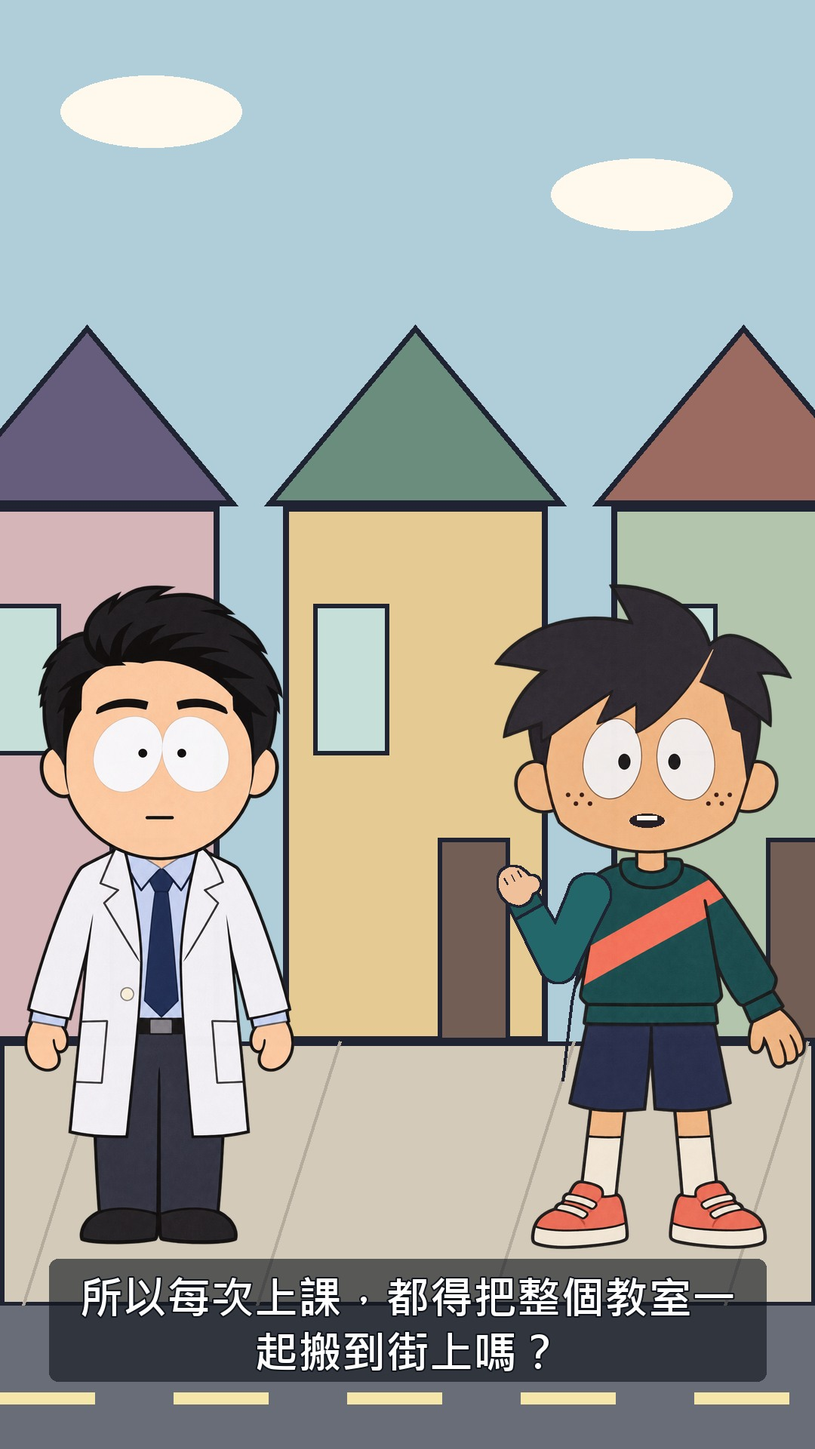
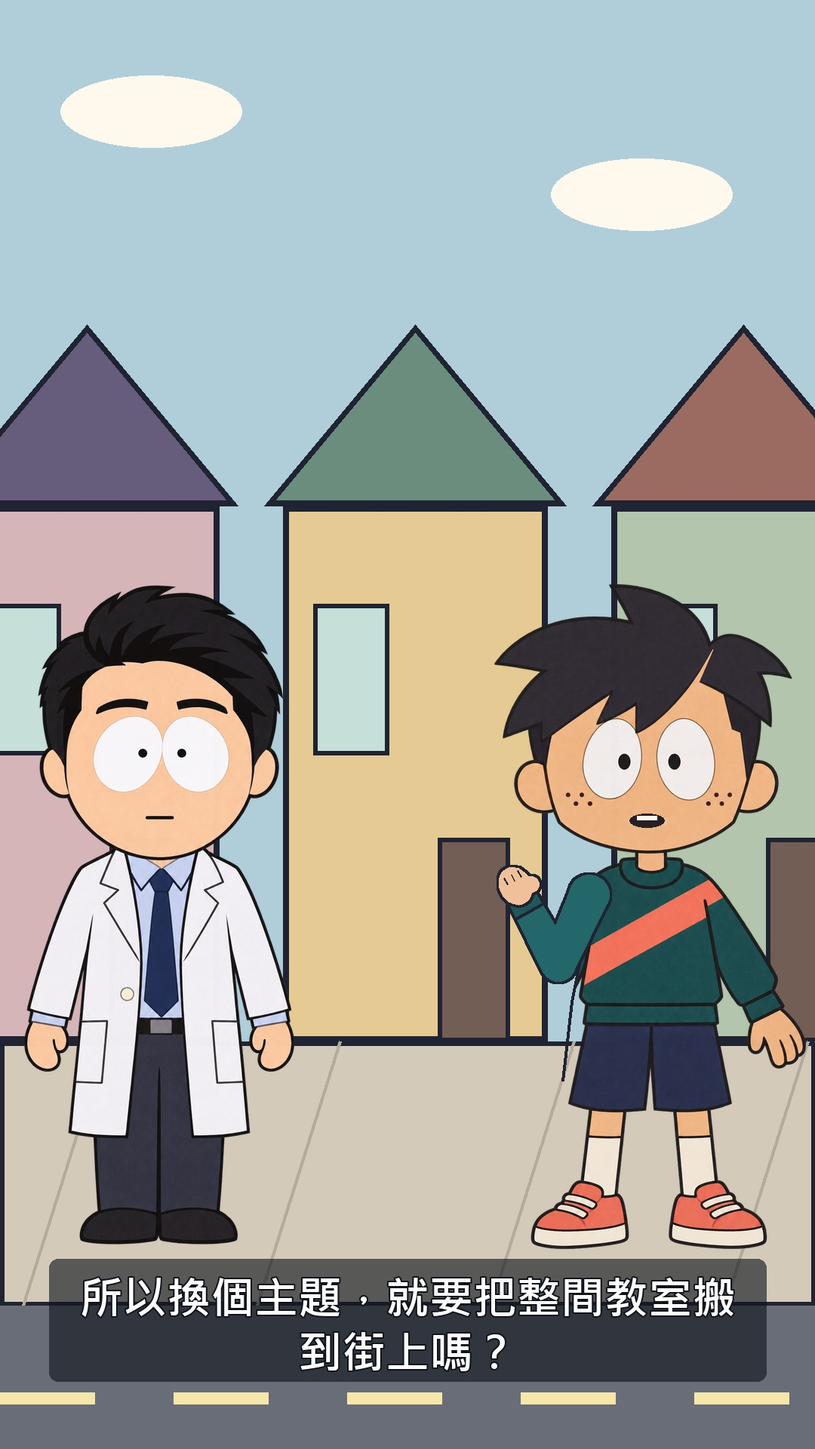
Make student questions explicit and close medical episodes with a doctor conclusion

Changed region(s): [[0.2139, 0.875, 0.6722, 0.9688], [0.8556, 0.875, 0.9167, 0.9062], [0.6722, 0.875, 0.7333, 0.9062]]

diff --git a/examples/draft/storyboard.html b/examples/draft/storyboard.html
@@ -1,1 +1,1 @@
-<!doctype html><html lang="zh-Hant"><meta charset="utf-8"><meta name="viewport" content="width=device-width,initial-scale=1"><title>醫師剪紙劇場・通用讀劇範本・分鏡審稿</title><style>body{background:#fff9ed;color:#202332;font:17px system-ui;max-width:1100px;margin:40px auto;padding:0 20px}article{display:grid;grid-template-columns:230px 1fr;gap:28px;border-top:3px solid #202332;padding:25px 0}img{width:100%;aspect-ratio:9/16;object-fit:contain}h1{font-size:30px}small{color:#666}p{line-height:1.7}.status{padding:18px;background:#f8c854}a{color:#315d57}@media(max-width:600px){article{grid-template-columns:1fr}img{max-width:270px}}</style><h1>醫師剪紙劇場・通用讀劇範本</h1><p class="status">待審稿 · 手機滿版場景 9:16 · 版本 ea56bb37448d4e18 · 約 49.0 秒（估）<br>尚未生成配音、配樂或影片。請先修改或確認腳本與分鏡。</p><p><a href="script.md">完整腳本</a> · <a href="storyboard.jpg">分鏡總覽</a> · <a href="episode.json">劇本資料</a></p><article><img src="frames/01.jpg" alt="分鏡 1"><div><small>01 · 教室 · 角色對話 · 5.7s（估）</small><h2>先猜，再找答案？</h2><p><b>阿洛：</b>醫師！今天的健康課講什麼？我已經準備亂猜了！</p><p>動作：教室黑板前，阿洛點頭搶話，醫師在旁聽。</p><p>反應：醫師維持冷面，等阿洛說完。</p><p>鏡頭：固定尺度・阿洛發言 · 來源：無臨床說法</p></div></article><article><img src="frames/02.jpg" alt="分鏡 2"><div><small>02 · 教室 · 黑板講解 · 6.4s（估）</small><h2>黑板把關係講清楚</h2><p><b>醫師：</b>先有主題，再查資料。你看黑板，我把關係整理給你看。</p><p>動作：師生同尺度分站黑板兩側，醫師用指示棒介紹條列與箭頭。</p><p>反應：阿洛看完黑板再接話，不讓教具成為純背景。</p><p>鏡頭：固定尺度・醫師發言 · 來源：無臨床說法</p></div></article><article><img src="frames/03.jpg" alt="分鏡 3"><div><small>03 · 小學校園 · 角色對話 · 5.9s（估）</small><h2>也可以用模型上課</h2><p><b>美芳：</b>也能放個骨頭模型嗎？讓學生看著教具，再問問題。</p><p>動作：校園中美芳提出教具建議，醫師聽完帶回教室示範。</p><p>反應：不把每一集固定成有人說錯、醫師糾正。</p><p>鏡頭：固定尺度・美芳發言 · 來源：無臨床說法</p></div></article><article><img src="frames/04.jpg" alt="分鏡 4"><div><small>04 · 教室 · 骨頭模型示範 · 5.9s（估）</small><h2>骨頭模型上桌</h2><p><b>醫師：</b>可以。模型放桌上，學生看得到，問題就能接著來。</p><p>動作：醫師與阿洛同尺度站在模型兩側；桌面有骨頭教具與支架。</p><p>反應：阿洛觀察模型；本幕只展示教具演法，不提供疾病或精確解剖說法。</p><p>鏡頭：固定尺度・醫師發言 · 來源：無臨床說法</p></div></article><article><img src="frames/05.jpg" alt="分鏡 5"><div><small>05 · 街道 · 角色對話 · 5.8s（估）</small><h2>連教室都要搬出來？</h2><p><b>阿洛：</b>所以每次上課，都得把整個教室一起搬到街上嗎？</p><p>動作：街道中阿洛追問，醫師保持同尺度冷面聽完。</p><p>反應：從教具示範轉成生活情境，用接話推進笑點。</p><p>鏡頭：固定尺度・阿洛發言 · 來源：無臨床說法</p></div></article><article><img src="frames/06.jpg" alt="分鏡 6"><div><small>06 · 街道 · 並列比較 · 5.9s（估）</small><h2>演法依主題來選</h2><p><b>美芳：</b>不用搬教室。看主題，選適合的場景、黑板或模型。</p><p>動作：街道上用並列教學卡比較兩種敘事用途，兩位角色保持同尺度。</p><p>反應：美芳代觀眾回應，不把所有內容塞成醫師獨白。</p><p>鏡頭：固定尺度・美芳發言 · 來源：無臨床說法</p></div></article><article><img src="frames/07.jpg" alt="分鏡 7"><div><small>07 · 教室 · 學生猜題 · 6.8s（估）</small><h2>先讓你看分鏡</h2><p><b>醫師：</b>來，猜一下：先看分鏡，還是直接開拍？你確認了才開拍。</p><p>動作：師生站在黑板兩側，列出兩個選項，先交給使用者審閱。</p><p>反應：阿洛準備接話；修改確認之前不生成聲音或影片。</p><p>鏡頭：固定尺度・全員同框 · 來源：無臨床說法</p></div></article><article><img src="frames/08.jpg" alt="分鏡 8"><div><small>08 · 教室 · 角色對話 · 6.5s（估）</small><h2>先審稿，才不會演錯棚</h2><p><b>阿洛：</b>好！先讓你看分鏡，我才不會抱著骨頭模型演錯棚！</p><p>動作：滿版教室雙人同框；阿洛說話時揮手，結束後收手留白。</p><p>反應：醫師在旁聽，停在分鏡審稿階段，等待使用者修改。</p><p>鏡頭：固定尺度・笑點留白 · 來源：無臨床說法</p></div></article></html>
+<!doctype html><html lang="zh-Hant"><meta charset="utf-8"><meta name="viewport" content="width=device-width,initial-scale=1"><title>醫師剪紙劇場・通用讀劇範本・分鏡審稿</title><style>body{background:#fff9ed;color:#202332;font:17px system-ui;max-width:1100px;margin:40px auto;padding:0 20px}article{display:grid;grid-template-columns:230px 1fr;gap:28px;border-top:3px solid #202332;padding:25px 0}img{width:100%;aspect-ratio:9/16;object-fit:contain}h1{font-size:30px}small{color:#666}p{line-height:1.7}.status{padding:18px;background:#f8c854}a{color:#315d57}@media(max-width:600px){article{grid-template-columns:1fr}img{max-width:270px}}</style><h1>醫師剪紙劇場・通用讀劇範本</h1><p class="status">待審稿 · 手機滿版場景 9:16 · 版本 3ca61ae56ad882e2 · 約 56.7 秒（估）<br>尚未生成配音、配樂或影片。請先修改或確認腳本與分鏡。</p><p><a href="script.md">完整腳本</a> · <a href="storyboard.jpg">分鏡總覽</a> · <a href="episode.json">劇本資料</a></p><article><img src="frames/01.jpg" alt="分鏡 1"><div><small>01 · 教室 · 角色對話 · 提問 · 5.9s（估）</small><h2>先猜，再找答案？</h2><p><b>阿洛：</b>醫師，今天健康課要講什麼呢？我可以先猜猜看嗎？</p><p>動作：阿洛舉手，用真正請教的疑問句發問；問完等待醫師回答。</p><p>反應：醫師下一幕先回應阿洛的問題，再帶到黑板。</p><p>鏡頭：固定尺度・阿洛發言 · 來源：無臨床說法</p></div></article><article><img src="frames/02.jpg" alt="分鏡 2"><div><small>02 · 教室 · 黑板講解 · 回答 · 6.4s（估）</small><h2>黑板把關係講清楚</h2><p><b>醫師：</b>先有主題，再查資料。你看黑板，我把關係整理給你看。</p><p>動作：師生同尺度分站黑板兩側，醫師用指示棒介紹條列與箭頭。</p><p>反應：阿洛看完黑板再接話，不讓教具成為純背景。</p><p>鏡頭：固定尺度・醫師發言 · 來源：無臨床說法</p></div></article><article><img src="frames/03.jpg" alt="分鏡 3"><div><small>03 · 小學校園 · 角色對話 · 提問 · 6.6s（估）</small><h2>也可以用模型上課</h2><p><b>美芳：</b>也能放個骨頭模型嗎？讓學生看著教具，再問問題，好嗎？</p><p>動作：校園中美芳提出教具建議，醫師聽完帶回教室示範。</p><p>反應：不把每一集固定成有人說錯、醫師糾正。</p><p>鏡頭：固定尺度・美芳發言 · 來源：無臨床說法</p></div></article><article><img src="frames/04.jpg" alt="分鏡 4"><div><small>04 · 教室 · 骨頭模型示範 · 回答 · 5.9s（估）</small><h2>骨頭模型上桌</h2><p><b>醫師：</b>可以。模型放桌上，學生看得到，問題就能接著來。</p><p>動作：醫師與阿洛同尺度站在模型兩側；桌面有骨頭教具與支架。</p><p>反應：阿洛觀察模型；本幕只展示教具演法，不提供疾病或精確解剖說法。</p><p>鏡頭：固定尺度・醫師發言 · 來源：無臨床說法</p></div></article><article><img src="frames/05.jpg" alt="分鏡 5"><div><small>05 · 街道 · 角色對話 · 提問 · 5.3s（估）</small><h2>連教室都要搬出來？</h2><p><b>阿洛：</b>所以換個主題，就要把整間教室搬到街上嗎？</p><p>動作：街道中阿洛追問，醫師保持同尺度冷面聽完。</p><p>反應：從教具示範轉成生活情境，用接話推進笑點。</p><p>鏡頭：固定尺度・阿洛發言 · 來源：無臨床說法</p></div></article><article><img src="frames/06.jpg" alt="分鏡 6"><div><small>06 · 街道 · 並列比較 · 回答 · 5.9s（估）</small><h2>演法依主題來選</h2><p><b>美芳：</b>不用搬教室。看主題，選適合的場景、黑板或模型。</p><p>動作：街道上用並列教學卡比較兩種敘事用途，兩位角色保持同尺度。</p><p>反應：美芳代觀眾回應，不把所有內容塞成醫師獨白。</p><p>鏡頭：固定尺度・美芳發言 · 來源：無臨床說法</p></div></article><article><img src="frames/07.jpg" alt="分鏡 7"><div><small>07 · 教室 · 學生猜題 · 回答 · 6.8s（估）</small><h2>先讓你看分鏡</h2><p><b>醫師：</b>來，猜一下：先看分鏡，還是直接開拍？你確認了才開拍。</p><p>動作：師生站在黑板兩側，列出兩個選項，先交給使用者審閱。</p><p>反應：阿洛準備接話；修改確認之前不生成聲音或影片。</p><p>鏡頭：固定尺度・全員同框 · 來源：無臨床說法</p></div></article><article><img src="frames/08.jpg" alt="分鏡 8"><div><small>08 · 教室 · 角色對話 · 提問 · 6.5s（估）</small><h2>有問題還能再問嗎？</h2><p><b>阿洛：</b>所以先看分鏡再拍嗎？如果還有問題，可以再問嗎？</p><p>動作：阿洛自然舉手追問，以「嗎？」結尾，不在問題後接斷言。</p><p>反應：醫師接著回答，並用結論與個別評估提醒收尾。</p><p>鏡頭：固定尺度・笑點留白 · 來源：無臨床說法</p></div></article><article><img src="frames/09.jpg" alt="分鏡 9"><div><small>09 · 教室 · 角色對話 · 結論 · 7.2s（估）</small><h2>問清楚，個別狀況交由專業評估</h2><p><b>醫師：</b>可以，再問清楚。實際狀況，還是建議請專業醫師評估。</p><p>動作：醫師先回答學生，再以專業評估提醒收束；提醒會完整配音與上字幕。</p><p>反應：阿洛聽完，結尾保留停頓，不再接笑話蓋過結論。</p><p>鏡頭：固定尺度・醫師發言 · 來源：無臨床說法</p></div></article></html>

diff --git a/scripts/render.py b/scripts/render.py
@@ -18,6 +18,7 @@ from visuals import Stage, chunks, find_font, fit, TEACHING_LABELS, GESTURE_LABE
 
 ROOT = Path(__file__).resolve().parents[1]
 ASPECT_RATIO = "9:16"
+INTENT_LABELS = {"question":"提問", "answer":"回答", "statement":"陳述", "reaction":"反應", "closing":"結論"}
 
 
 def video_size(width=1080):
@@ -91,6 +92,11 @@ def validate(data):
         for field,limit in (("text",140),("headline",26),("beat",40)):
             if not isinstance(scene.get(field),str) or not 1 <= len(scene[field].strip()) <= limit:
                 raise ValueError(f"Scene {i+1}: {field} must have 1–{limit} characters")
+        scene.setdefault("intent","question" if scene["text"].rstrip().endswith(("？","?")) else "statement")
+        if scene["intent"] not in INTENT_LABELS:
+            raise ValueError(f"Scene {i+1}: invalid dialogue intent")
+        if scene["intent"]=="question" and not scene["text"].rstrip().endswith(("？","?")):
+            raise ValueError(f"Scene {i+1}: question dialogue must end with a question mark; rewrite it as a natural question")
         if scene.get("speaker") not in DEFAULT_VOICES:
             raise ValueError(f"Scene {i+1}: invalid speaker")
         if scene.get("shot") not in ("wide","doctor","alo","mei","punch"):
@@ -135,6 +141,8 @@ def validate(data):
         claim_count+=len(claims)
     if kind == "medical" and (not sources or not claim_count):
         raise ValueError("Medical episodes require sources and scene-level claims references")
+    if kind=="medical" and (scenes[-1]["speaker"]!="doctor" or scenes[-1]["intent"]!="closing"):
+        raise ValueError("Medical episodes must end with a doctor closing scene: summarize the topic and an appropriate individual-assessment reminder")
     if sum(s["speaker"]!="narrator" for s in scenes)/len(scenes)<.75:
         raise ValueError("At least 75% of scenes must be character dialogue")
     return data
@@ -183,10 +191,11 @@ def draft(episode,out,font_path):
                     "punch":"固定尺度・笑點留白"}[scene["shot"]]
         beat_label={"hook":"開場衝突","turn":"轉折","escalate":"誤解升級","explain":"釐清",
                     "character":"角色接話","dialogue":"追問","workflow":"製作流程",
-                    "punch":"笑點","cta":"行動"}.get(scene["beat"],scene["beat"])
+                    "punch":"笑點","cta":"行動","closing":"重點與評估提醒"}.get(scene["beat"],scene["beat"])
         cast="、".join(episode["names"][c] for c in scene["cast"])
         rows += [f"## {i+1:02} · {setting} · {beat_label} · 約 {end-cursor:.1f} 秒\n",
                  f"角色：{cast}｜鏡頭：{shot_label}\n",
+                 f"對話功能：{INTENT_LABELS[scene['intent']]}\n",
                  f"**{name}：** {scene['text']}\n",f"動作：{scene['action']}\n",
                  f"接話／反應：{scene['reaction']}\n",f"字卡：{scene['headline']}\n",
                  f"演法：{TEACHING_LABELS[scene['teaching']['mode']]}\n",
@@ -196,7 +205,7 @@ def draft(episode,out,font_path):
         teaching_label=TEACHING_LABELS[scene["teaching"]["mode"]]
         if scene["teaching"]["mode"]!="dialogue":
             rows.append(f"教具內容：{scene['teaching']['title']}；{'／'.join(scene['teaching']['points'])}\n")
-        cards.append(f'<article><img src="{image_name}" alt="分鏡 {i+1}"><div><small>{i+1:02} · {setting} · {esc(teaching_label)} · {end-cursor:.1f}s（估）</small><h2>{esc(scene["headline"])}</h2><p><b>{esc(name)}：</b>{esc(scene["text"])}</p><p>動作：{esc(scene["action"])}</p><p>反應：{esc(scene["reaction"])}</p><p>鏡頭：{esc(shot_label)} · 來源：{esc(", ".join(scene["claims"]) or "無臨床說法")}</p></div></article>')
+        cards.append(f'<article><img src="{image_name}" alt="分鏡 {i+1}"><div><small>{i+1:02} · {setting} · {esc(teaching_label)} · {esc(INTENT_LABELS[scene["intent"]])} · {end-cursor:.1f}s（估）</small><h2>{esc(scene["headline"])}</h2><p><b>{esc(name)}：</b>{esc(scene["text"])}</p><p>動作：{esc(scene["action"])}</p><p>反應：{esc(scene["reaction"])}</p><p>鏡頭：{esc(shot_label)} · 來源：{esc(", ".join(scene["claims"]) or "無臨床說法")}</p></div></article>')
         timeline.append({k:v for k,v in item.items() if k!="envelope"})
         cursor=end
     sheet=Image.new("RGB",(810,480*math.ceil(len(thumbnails)/3)),"#FFF9ED")

diff --git a/tests/test_pipeline.py b/tests/test_pipeline.py
@@ -76,11 +76,34 @@ class PipelineTests(unittest.TestCase):
             self.assertFalse((output/"audio").exists())
             self.assertFalse(list(output.glob("*.wav")))
             self.assertFalse(list(output.glob("*.mp4")))
-            self.episode["scenes"][0]["text"]+="這是修改。"
+            self.episode["scenes"][0]["text"]+="這樣也可以嗎？"
             episode.write_text(json.dumps(self.episode,ensure_ascii=False),encoding="utf-8")
             result=subprocess.run(command+["--render","--approved-hash",manifest["revision"]],capture_output=True)
             self.assertNotEqual(result.returncode,0)
+            self.assertIn(b"Missing/stale approval hash",result.stderr)
             self.assertFalse((output/"audio").exists())
+
+    def test_question_dialogue_and_medical_closing_require_explicit_structure(self):
+        data=copy.deepcopy(self.episode)
+        first=data["scenes"][0]
+        first["intent"]="question"
+        first["text"]="如果從足部開始看呢。"
+        with self.assertRaises(ValueError):
+            render.validate(data)
+        first["text"]="如果從足部開始看呢？"
+        self.assertEqual(render.validate(data)["scenes"][0]["intent"],"question")
+        data["content_type"]="medical"
+        data["sources"]=[{"id":"source","title":"Source fixture","url":"https://example.org/",
+                          "accessed":"2026-11-22","supports":"Test fixture only"}]
+        first["claims"]=["source"]
+        self.assertEqual(render.validate(data)["scenes"][-1]["intent"],"closing")
+        data["scenes"][-1]["intent"]="reaction"
+        with self.assertRaises(ValueError):
+            render.validate(data)
+        data["scenes"][-1]["intent"]="closing"
+        data["scenes"][-1]["speaker"]="alo"
+        with self.assertRaises(ValueError):
+            render.validate(data)
 
     def test_same_actor_size_for_all_speakers_and_three_person_shot(self):
         data=render.validate(self.episode)

diff --git a/examples/draft/script.md b/examples/draft/script.md
@@ -1,6 +1,6 @@
 # 醫師剪紙劇場・通用讀劇範本
 
-分鏡版本：`ea56bb37448d4e18`
+分鏡版本：`3ca61ae56ad882e2`
 
 狀態：待使用者審閱。尚未生成配音、配樂或影片。
 
@@ -8,15 +8,17 @@
 
 分鏡顯示說話姿勢代表幀，尚未合成聲音或影片。總覽是多張直式分鏡拼在一起，不是影片畫面比例。
 
-## 01 · 教室 · 開場衝突 · 約 5.7 秒
+## 01 · 教室 · 開場衝突 · 約 5.9 秒
 
 角色：醫師、阿洛｜鏡頭：固定尺度・阿洛發言
 
-**阿洛：** 醫師！今天的健康課講什麼？我已經準備亂猜了！
+對話功能：提問
 
-動作：教室黑板前，阿洛點頭搶話，醫師在旁聽。
+**阿洛：** 醫師，今天健康課要講什麼呢？我可以先猜猜看嗎？
 
-接話／反應：醫師維持冷面，等阿洛說完。
+動作：阿洛舉手，用真正請教的疑問句發問；問完等待醫師回答。
+
+接話／反應：醫師下一幕先回應阿洛的問題，再帶到黑板。
 
 字卡：先猜，再找答案？
 
@@ -29,6 +31,8 @@
 ## 02 · 教室 · 轉折 · 約 6.4 秒
 
 角色：醫師、阿洛｜鏡頭：固定尺度・醫師發言
+
+對話功能：回答
 
 **醫師：** 先有主題，再查資料。你看黑板，我把關係整理給你看。
 
@@ -46,11 +50,13 @@
 
 教具內容：每個主題各自編劇；先查可靠資料／再整理故事關係／讓角色接話
 
-## 03 · 小學校園 · 誤解升級 · 約 5.9 秒
+## 03 · 小學校園 · 誤解升級 · 約 6.6 秒
 
 角色：醫師、美芳｜鏡頭：固定尺度・美芳發言
 
-**美芳：** 也能放個骨頭模型嗎？讓學生看著教具，再問問題。
+對話功能：提問
+
+**美芳：** 也能放個骨頭模型嗎？讓學生看著教具，再問問題，好嗎？
 
 動作：校園中美芳提出教具建議，醫師聽完帶回教室示範。
 
@@ -68,6 +74,8 @@
 
 角色：醫師、阿洛｜鏡頭：固定尺度・醫師發言
 
+對話功能：回答
+
 **醫師：** 可以。模型放桌上，學生看得到，問題就能接著來。
 
 動作：醫師與阿洛同尺度站在模型兩側；桌面有骨頭教具與支架。
@@ -84,11 +92,13 @@
 
 教具內容：先看教具，再提問；骨頭模型：通用示意
 
-## 05 · 街道 · 角色接話 · 約 5.8 秒
+## 05 · 街道 · 角色接話 · 約 5.3 秒
 
 角色：醫師、阿洛｜鏡頭：固定尺度・阿洛發言
 
-**阿洛：** 所以每次上課，都得把整個教室一起搬到街上嗎？
+對話功能：提問
+
+**阿洛：** 所以換個主題，就要把整間教室搬到街上嗎？
 
 動作：街道中阿洛追問，醫師保持同尺度冷面聽完。
 
@@ -105,6 +115,8 @@
 ## 06 · 街道 · 追問 · 約 5.9 秒
 
 角色：醫師、美芳｜鏡頭：固定尺度・美芳發言
+
+對話功能：回答
 
 **美芳：** 不用搬教室。看主題，選適合的場景、黑板或模型。
 
@@ -126,6 +138,8 @@
 
 角色：醫師、阿洛｜鏡頭：固定尺度・全員同框
 
+對話功能：回答
+
 **醫師：** 來，猜一下：先看分鏡，還是直接開拍？你確認了才開拍。
 
 動作：師生站在黑板兩側，列出兩個選項，先交給使用者審閱。
@@ -142,21 +156,43 @@
 
 教具內容：下一步怎麼做？；先看腳本分鏡／直接開拍
 
-## 08 · 教室 · 笑點 · 約 6.5 秒
+## 08 · 教室 · 追問 · 約 6.5 秒
 
 角色：醫師、阿洛｜鏡頭：固定尺度・笑點留白
 
-**阿洛：** 好！先讓你看分鏡，我才不會抱著骨頭模型演錯棚！
+對話功能：提問
 
-動作：滿版教室雙人同框；阿洛說話時揮手，結束後收手留白。
+**阿洛：** 所以先看分鏡再拍嗎？如果還有問題，可以再問嗎？
 
-接話／反應：醫師在旁聽，停在分鏡審稿階段，等待使用者修改。
+動作：阿洛自然舉手追問，以「嗎？」結尾，不在問題後接斷言。
 
-字卡：先審稿，才不會演錯棚
+接話／反應：醫師接著回答，並用結論與個別評估提醒收尾。
+
+字卡：有問題還能再問嗎？
 
 演法：角色對話
 
-手部：揮手；配音後依音量切換嘴型。
+手部：舉手提問；配音後依音量切換嘴型。
+
+來源：純劇情／範本，不含臨床說法
+
+## 09 · 教室 · 重點與評估提醒 · 約 7.2 秒
+
+角色：醫師、阿洛｜鏡頭：固定尺度・醫師發言
+
+對話功能：結論
+
+**醫師：** 可以，再問清楚。實際狀況，還是建議請專業醫師評估。
+
+動作：醫師先回答學生，再以專業評估提醒收束；提醒會完整配音與上字幕。
+
+接話／反應：阿洛聽完，結尾保留停頓，不再接笑話蓋過結論。
+
+字卡：問清楚，個別狀況交由專業評估
+
+演法：角色對話
+
+手部：攤手介紹；配音後依音量切換嘴型。
 
 來源：純劇情／範本，不含臨床說法
 

diff --git a/references/writing.md b/references/writing.md
@@ -12,6 +12,18 @@
 
 醫師：冷面、句子短、專業但有反應。阿洛：學生，直白好奇、把推論帶向荒謬。美芳：成年家長，替一般成人觀眾追問限制。題材涉及成人患者時，使用成年角色承接情境，學生可以提問，但不能把成人建議套到兒童。至少 75% 的幕是角色接話，避免醫師長篇獨白。
 
+### 讓學生真的在發問
+
+分清「提問」與「陳述／反應」。真正向醫師請教時，用自然疑問句並保留到配音 `text`，不要只改標題或手勢。依語意選「嗎？」「呢？」「為什麼……？」「是不是……？」，也可用條件式追問，例如「如果從足部開始看呢？」「所以不只要看一個地方，對嗎？」。這些只是句型示例，不代表指定本集主題或醫療結論。
+
+不要把「我知道了」硬接成「我知道了嗎」，也不要每次問句都套同一個尾詞。問句以 `intent: question` 標記，並以問號結尾；若原句最後又加肯定句或笑話，宜拆成另一幕，讓疑問語氣清楚。醫師下一次接話要回答學生剛問的事，不能直接換話題。TTS 使用完整台詞與標點，不要在合成前移除「嗎／呢」或問號；實際疑問語調仍需在確認後聽音驗收。
+
+### 用結論收束，不停在笑話
+
+醫療片最後由醫師回答本集核心問題，整理一個可帶走的重點，再提供合適的下一步或個別評估提醒。常見寫法是「今天先記住：〔依來源支持的本集重點〕。實際狀況，仍建議請專業醫師評估」。可依主題改寫為「每個人的情況不同，處理方式需由醫師評估」，不必逐片逐字重複。
+
+若分兩幕，前一幕總結主題，最後一幕放個別評估提醒並標記 `intent: closing`。不要只剩制式免責句，也不要在醫師結論之後再用角色笑話把結論推翻。需要就醫時機或其他臨床建議時仍須查證來源。結尾要進入完整配音與字幕，預留閱讀與停頓時間；片長不足時先刪前面重複台詞，不能截掉最後的結論。
+
 固定場景為原創教室、虛構青禾小學校園與一般街道。避開原作角色服裝組合、標誌配色、地標、校徽與台詞；借用平面剪紙與喜劇節奏，不複製既有角色。所有角色在每張分鏡都維持相同尺寸、腳底對齊，不能因為說話者不同而縮小另一個人。
 
 影像本身就是 9:16 滿版場景，不能把一張橫圖放在中央、上下面板放標題。標題和幕號留在審稿網頁，影片只用可選的畫內對話字幕。每幕寫出手部姿勢，與說話內容配合：解釋時指黑板、介紹教具時攤手、學生提問時舉手、收尾可揮手；不要整支角色只站著口播，也不要每句都重複同一姿勢。
@@ -25,7 +37,7 @@
 | Turn | 醫師用一個事實打斷 | 同尺度對話構圖，縮短台詞 |
 | Explain | 用道具或情境把核心講明白 | 一幕一重點，字幕分段 |
 | Reaction | 搭檔反應並回扣開頭 | 留約 0.3–0.6 秒冷場 |
-| Payoff / CTA | 笑點收尾，給觀眾一件可做的事 | 最後畫面保留閱讀時間 |
+| Payoff / Closing | 笑點後由醫師收束本集重點，給合適下一步或個別評估提醒 | 最後畫面保留閱讀時間 |
 
 這不是每支片必須六幕的硬規則，也不要求每集都有人說錯話。可從學生觀察模型、醫師在黑板畫關係、生活事件、家長追問或猜題開始。換主題時要重寫情境、道具與笑點。避免讓病人的痛苦變成笑點，或把「不看醫師」「硬撐訓練」演成正確答案。
 

diff --git a/references/format.md b/references/format.md
@@ -21,6 +21,7 @@
 - `speaker`：doctor / alo / mei / narrator。至少 75% 幕是人物對話。
 - `cast`：同框角色 ID 陣列，2–3 人，限 doctor/alo/mei；發言者必須出鏡。學生不等同成人患者。
 - `text`：完整配音；`headline`：審稿標題最多 26 字，顯示於分鏡網頁而不燒在影片頂部；`beat`：故事功能。
+- `intent`：question 提問／answer 回答／statement 陳述／reaction 反應／closing 結論。提問的 `text` 必須以「？／?」結尾，使用合適的「嗎／呢」等句型，避免標記提問但台詞像陳述。未填時僅按句尾問號推定 question 或 statement。醫療片最後一幕須由 doctor 以 closing 收束本集重點與合適的個別評估提醒；程式只檢查標記及角色，語意與臨床正確性仍須人工／AI 審稿。
 - `setting`：classroom 教室／schoolyard 小學校園／street 街道。
 - `shot`：wide / doctor / alo / mei / punch，記錄對話焦點。**現成引擎鎖定人物尺寸與腳底基準，不因 shot 放大發言者或縮小聽者。** 全身畫面固定尺度，對話焦點以標示、嘴型和小動作表達。
 - `motion`：nod 上下點頭／shake 左右搖頭／still 靜止；`hold`：句後停頓 0.1–2 秒。

diff --git a/README.md b/README.md
@@ -27,6 +27,8 @@
 
 劇情可混合**黑板講解、桌上骨頭模型、學生猜題、並列比較與生活情境**。醫師可以一面用教具解釋、一面回應學生；不固定每支都是誤解與糾正。黑板與模型會實際出現在分鏡中，人物尺寸維持一致。依主題選擇合適演法，不強制每集全部用到。
 
+學生提問時使用自然的疑問句，例如「如果從足部開始看呢？」或「這樣理解對嗎？」，語氣詞與問號會保留到配音台詞。醫療片結尾由醫師收束本集重點，再補上適合主題的下一步或「實際狀況，仍建議請專業醫師評估」等提醒，完整納入配音與字幕；不在最後用笑話蓋過結論。審稿頁會標出提問、回答與結論，方便你逐句調整。
+
 ## 給 AI 的一句話
 
 在可以讀檔並執行 Python 的代理環境中，讀取本專案後輸入：
